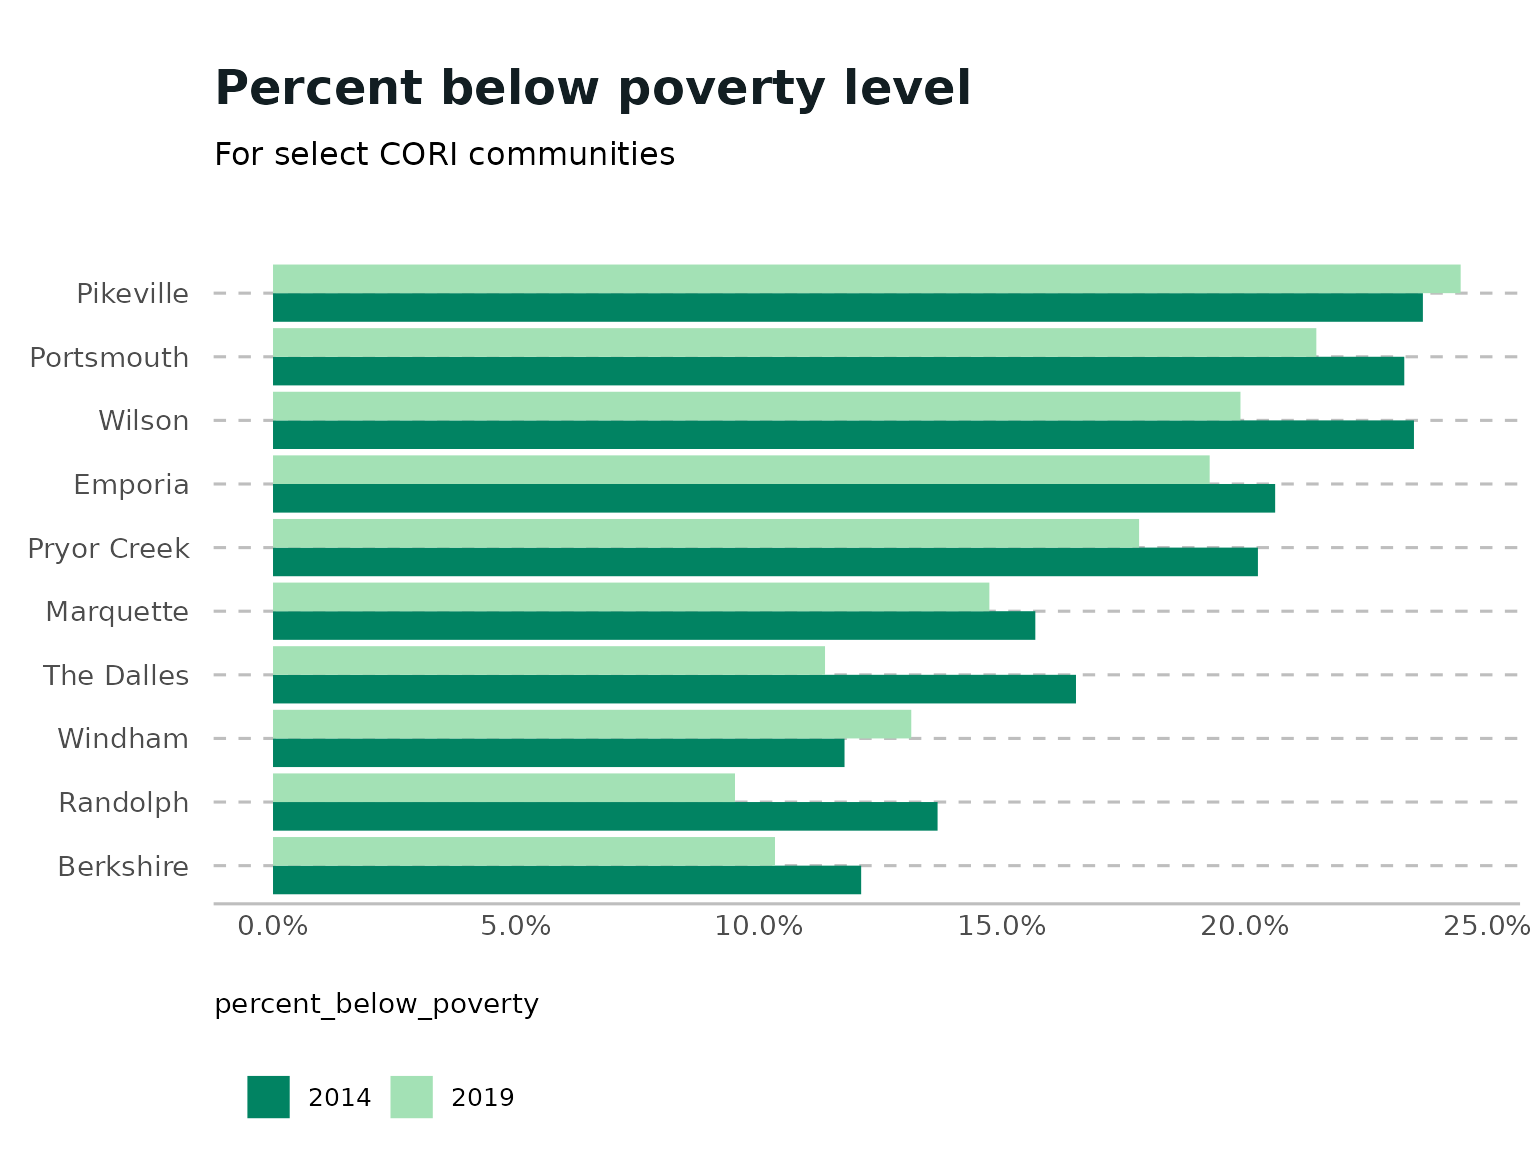
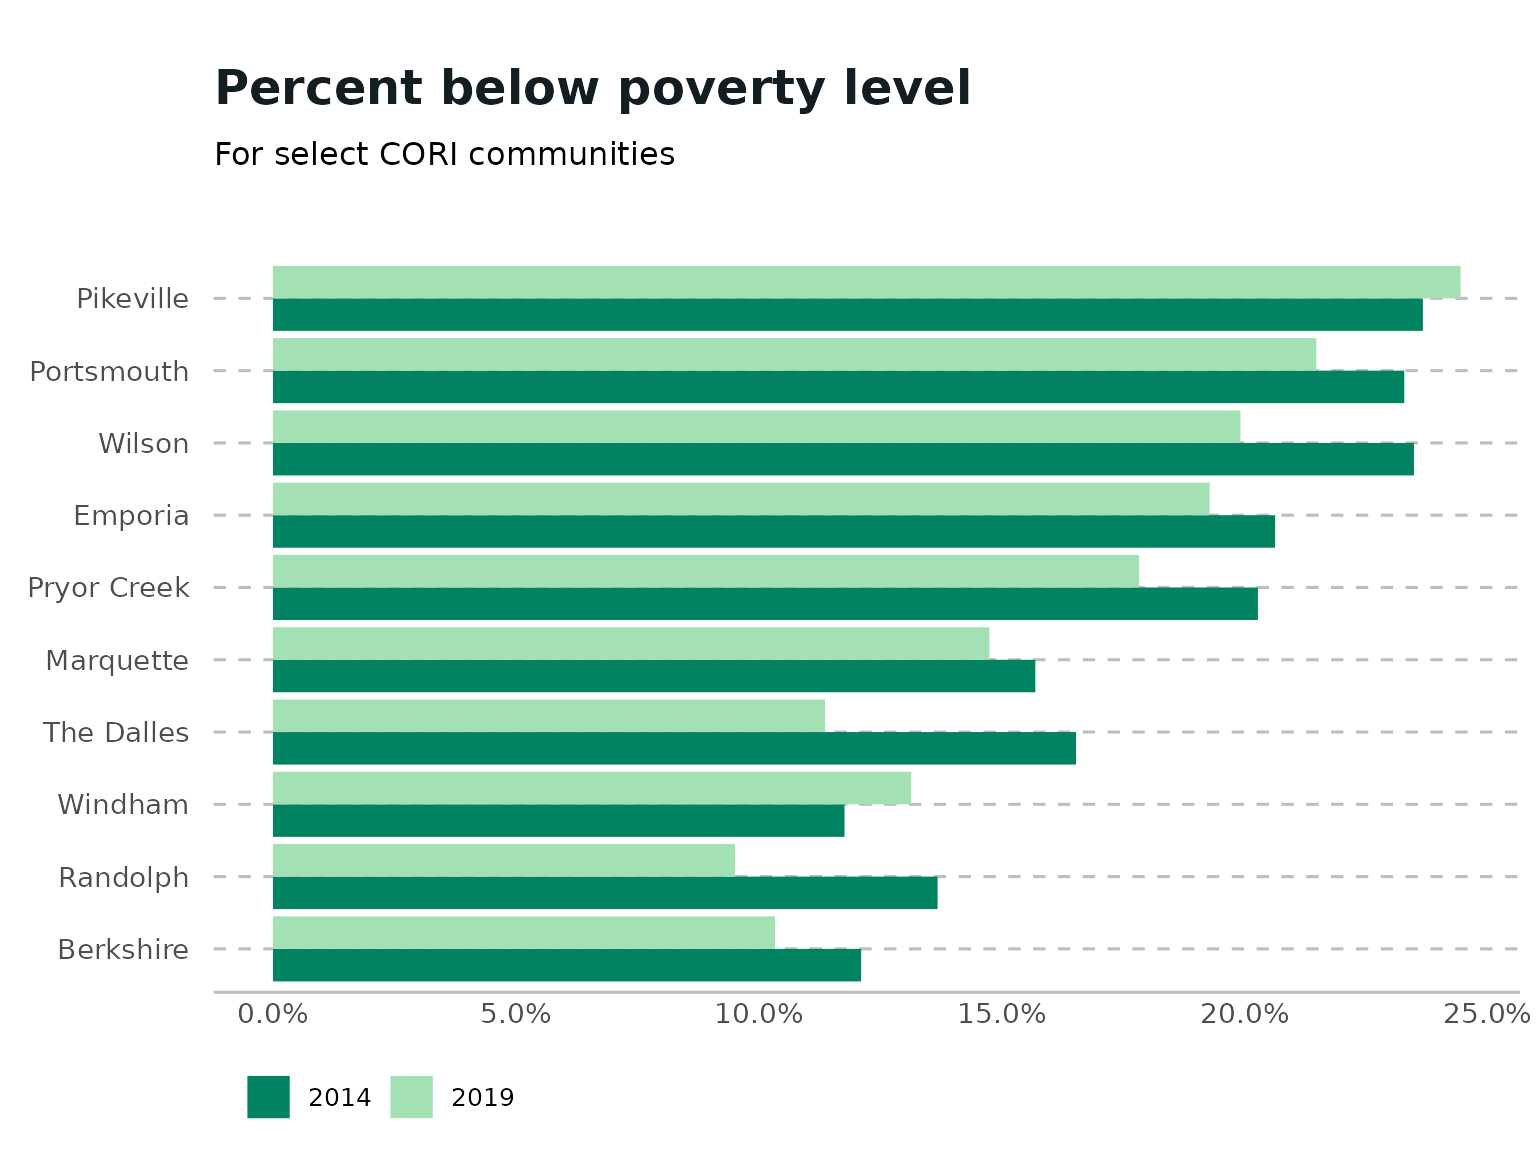
Deploying to gh-pages from @ ruralinnovation/cori.charts@d98b76d079675ed47d30b17e91ecd094bf8c5f97 🚀

diff --git a/reference/colors.html b/reference/colors.html
@@ -100,8 +100,8 @@ formats ready for <a href="https://ggplot2.tidyverse.org/reference/ggplot2-packa
 <span class="r-out co"><span class="r-pr">#&gt;</span>         rgb(x[, 1L], x[, 2L], x[, 3L], x[, 4L], maxColorValue = 255)</span>
 <span class="r-out co"><span class="r-pr">#&gt;</span>     else rgb(x[, 1L], x[, 2L], x[, 3L], maxColorValue = 255)</span>
 <span class="r-out co"><span class="r-pr">#&gt;</span> }</span>
-<span class="r-out co"><span class="r-pr">#&gt;</span> &lt;bytecode: 0x557f68170f48&gt;</span>
-<span class="r-out co"><span class="r-pr">#&gt;</span> &lt;environment: 0x557f68173c30&gt;</span>
+<span class="r-out co"><span class="r-pr">#&gt;</span> &lt;bytecode: 0x55b19c39e340&gt;</span>
+<span class="r-out co"><span class="r-pr">#&gt;</span> &lt;environment: 0x55b19c3a30a0&gt;</span>
 </code></pre></div>
     </div>
   </main><aside class="col-md-3"><nav id="toc"><h2>On this page</h2>

diff --git a/index.html b/index.html
@@ -100,7 +100,7 @@
   <span class="fu"><a href="https://ggplot2.tidyverse.org/reference/labs.html" class="external-link">labs</a></span><span class="op">(</span>title <span class="op">=</span> <span class="st">"Proportion working remotely"</span>,
        subtitle <span class="op">=</span> <span class="st">"By education level"</span><span class="op">)</span></code></pre></div>
 <p><img src="reference/figures/README-example-1.png" width="100%"></p>
-<p>Check out the vignette for a cookbook of CORI-themed plots!</p>
+<p>Check out the vignette for a <a href="https://ruralinnovation.github.io/cori.charts/articles/cookbook.html">cookbook of CORI-themed plots</a>!</p>
 </div>
 <div class="section level2">
 <h2 id="contributing">Contributing<a class="anchor" aria-label="anchor" href="#contributing"></a>

diff --git a/articles/cookbook.html b/articles/cookbook.html
@@ -115,6 +115,7 @@
   <span class="fu"><a href="https://ggplot2.tidyverse.org/reference/labs.html" class="external-link">labs</a></span><span class="op">(</span>
     title <span class="op">=</span> <span class="st">"Percent below poverty level"</span>,
     subtitle <span class="op">=</span> <span class="st">"For select CORI communities"</span>,
+    x <span class="op">=</span> <span class="cn">NULL</span>,
     y <span class="op">=</span> <span class="cn">NULL</span>
   <span class="op">)</span> <span class="op">+</span>
   <span class="fu"><a href="../reference/theme_cori.html">theme_cori</a></span><span class="op">(</span><span class="op">)</span></code></pre></div>
